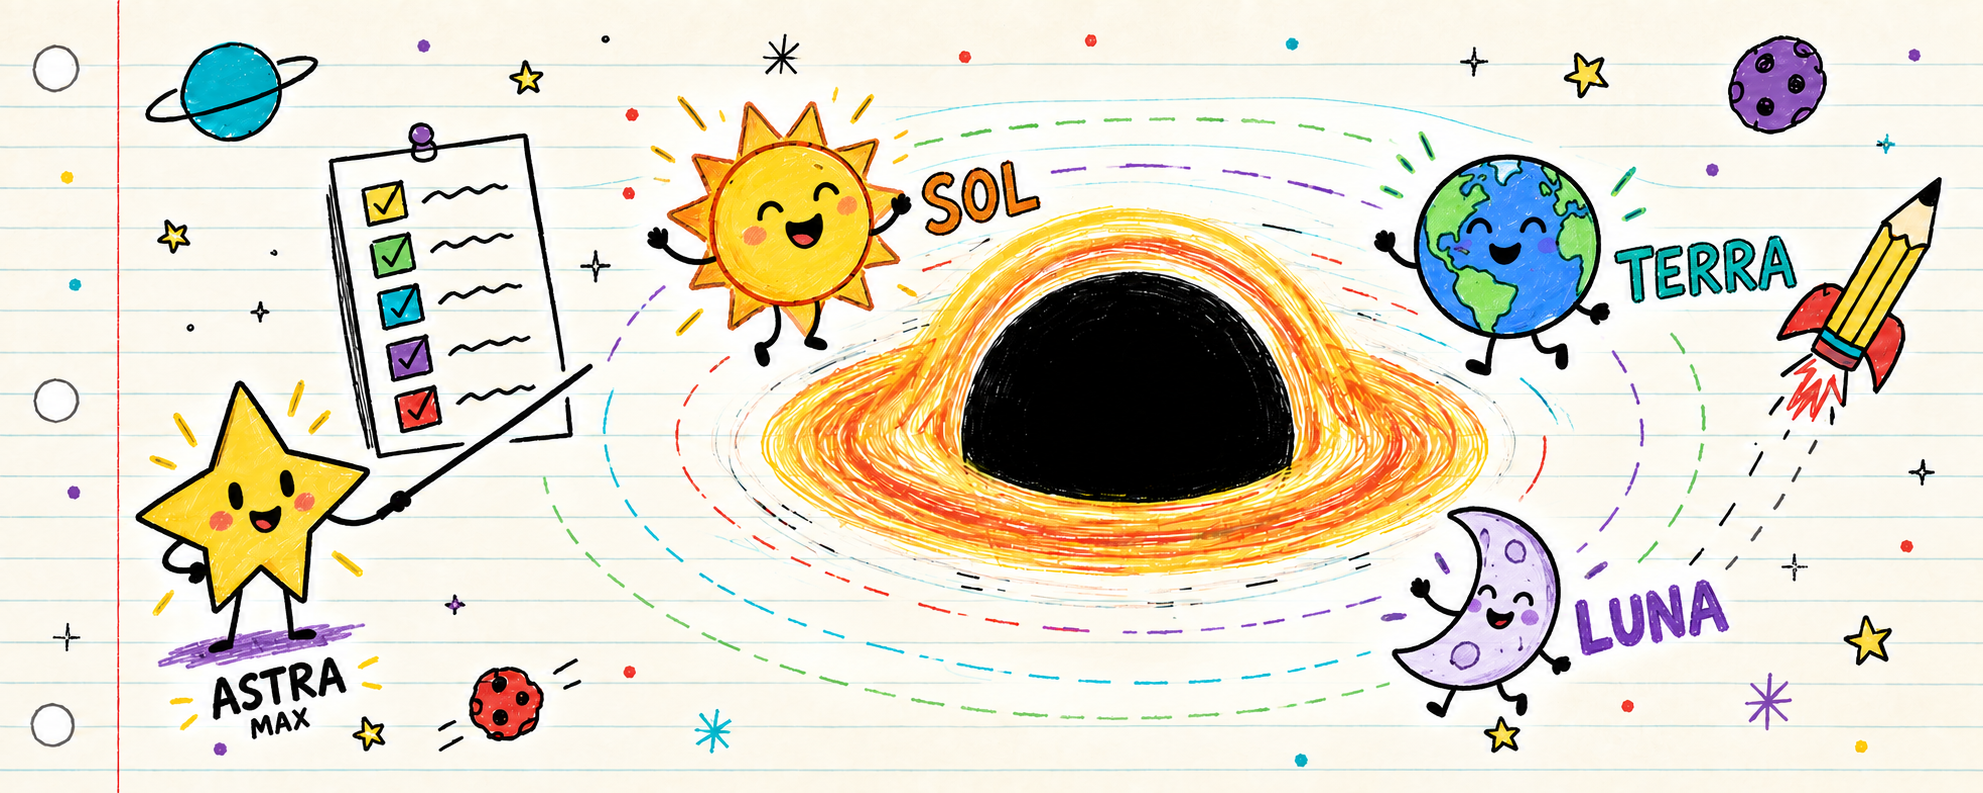
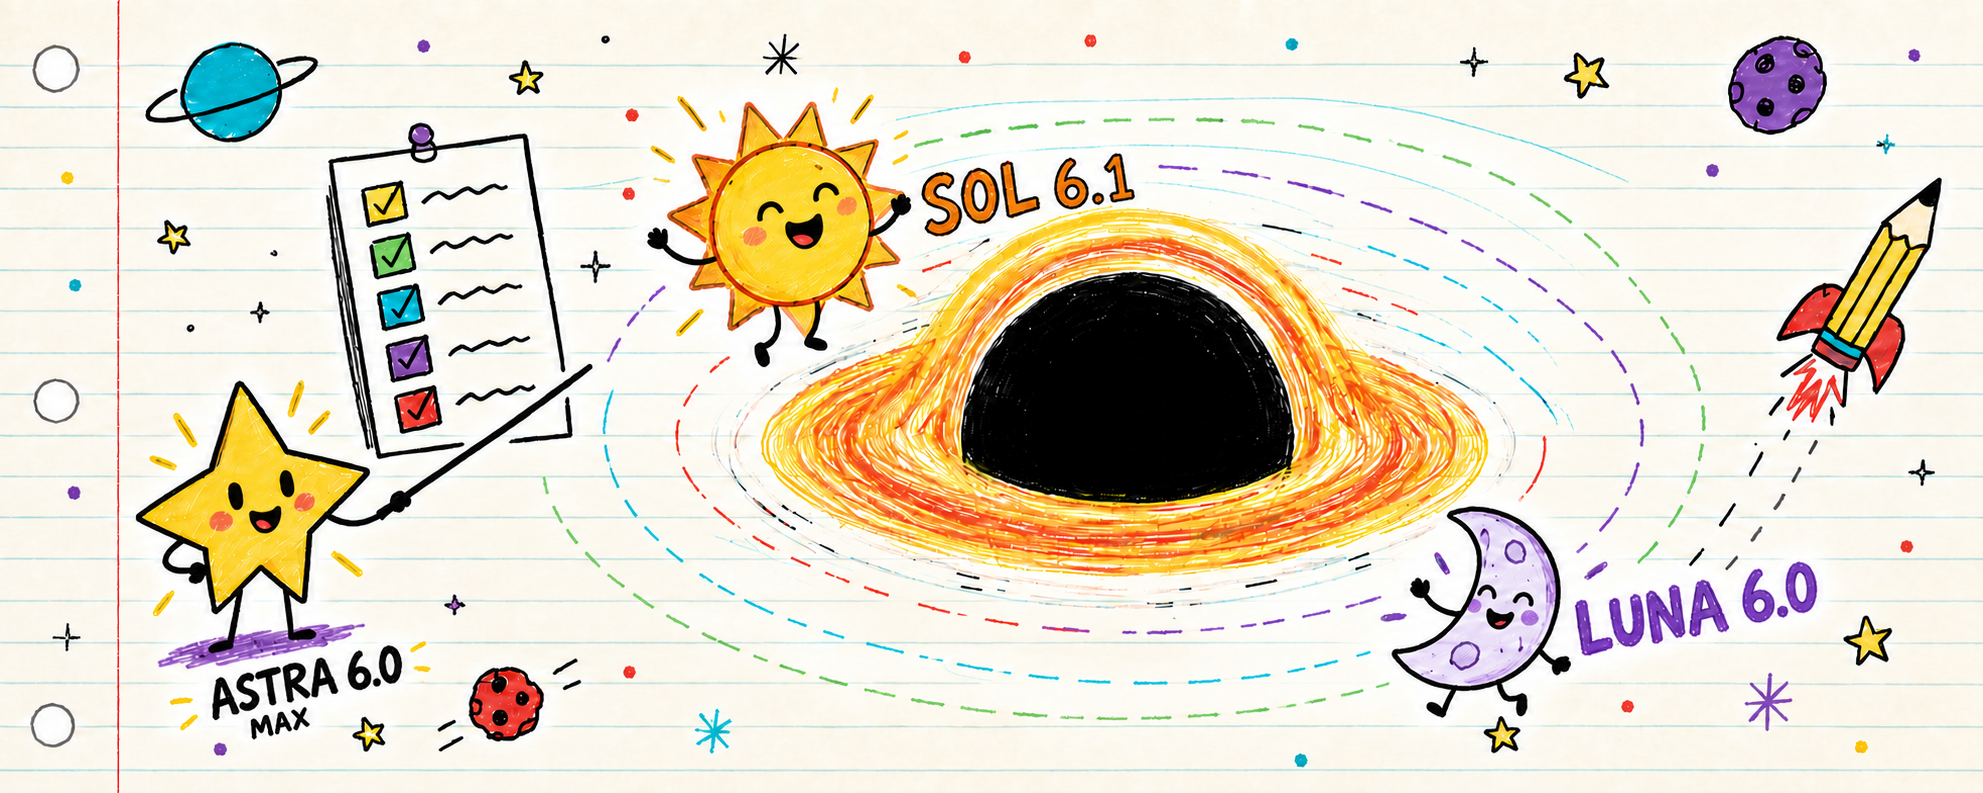
Restrict Gravity to Sol 6.1, Luna 6.0, and Astra 6.0

diff --git a/skills/gravity/SKILL.md b/skills/gravity/SKILL.md
@@ -1,11 +1,11 @@
 ---
 name: gravity
-description: Astra-coordinated GPT-6 worker routing for coding tasks, and for other work when Gravity, /orbit, /lens, /accrete, /bigbang, a swarm, or Gravity token economy is requested. Combines selective delegation, Graphify evidence, Ponytail minimal code, and Caveman concise delivery; specialist skills retain domain authority.
+description: GPT-6 Astra coordination with Luna for routine work and Sol 6.1 for implementation, complex work, and review. For coding tasks, or when Gravity, /orbit, /lens, /accrete, /bigbang, a swarm, or Gravity token economy is requested. Combines selective delegation, Graphify evidence, Ponytail minimal code, and Caveman concise delivery; specialist skills retain domain authority.
 ---
 
 # Gravity · GPT-6
 
-Use GPT-6 Astra at `max` to coordinate the outcome: understand the request, route useful work, judge results, integrate evidence, and finish. Route primary implementation and review to suitable GPT-6 workers. A swarm is useful only when independent results justify coordination.
+Use `gpt-6-astra` at `max` to coordinate the outcome: understand the request, route useful work, judge results, integrate evidence, and finish. Use only `gpt-6-luna` for routine work and `gpt-6.1-sol` for implementation, complex work, and review. These are the only allowed models. A swarm is useful only when independent results justify coordination.
 
 Apply implicitly to coding work and explicitly to other work through Gravity, its four modes, or a swarm request. Honor requests to avoid Gravity or agents. System and developer instructions, user scope, repository guidance, and specialist requirements govern this workflow. This skill grants no additional permissions and cannot change the running model itself.
 
@@ -32,12 +32,11 @@ The coordinator owns planning, difficult tradeoffs, acceptance, integration, and
 |---|---|---|
 | Coordinator / judge / integrator | `gpt-6-astra` | `max` |
 | Routine scoped work | `gpt-6-luna` | `low` or `medium` |
-| Bounded implementation, only if exposed by the host | `gpt-6-terra` | `medium` |
-| Complex work and independent review | `gpt-6-sol` | `medium` or `high` |
+| Implementation, complex work, and independent review | `gpt-6.1-sol` | `medium` or `high` |
 
-Start with the smallest suitable available worker; do not force clearly unsuitable models through serial attempts. A small serial task already running on a suitable confirmed non-Astra GPT-6 pairing can finish locally without an Astra coordinator. Terra is conditional, not assumed available: use `gpt-6-terra` only when the host confirms that model and effort. Set delegated worker model and effort explicitly; use inheritance only when the pairing is confirmed. When coordination is needed, use Astra at `max`; if that pairing cannot be configured, report the limitation and ask for the host setting. A skill cannot change the running model. Do not spawn a replacement coordinator or invent unsupported tool fields.
+Use Luna for routine scoped work and Sol 6.1 for implementation, complex work, and independent review. A small serial task already running on a suitable confirmed `gpt-6-luna` or `gpt-6.1-sol` pairing can finish locally without an Astra coordinator. Only `gpt-6.1-sol`, `gpt-6-luna`, and `gpt-6-astra` are allowed; do not substitute other versions or providers. Set delegated worker model and effort explicitly; use inheritance only when the pairing is confirmed. When coordination is needed, use `gpt-6-astra` at `max`; if that pairing cannot be configured, report the limitation and ask for the host setting. A skill cannot change the running model. Do not spawn a replacement coordinator or invent unsupported tool fields.
 
-Do not silently downgrade to GPT-5.6 or another provider. These are workflow roles, not cost or speed guarantees.
+These are workflow roles, not cost or speed guarantees.
 
 ## Establish evidence, then split
 
@@ -51,7 +50,7 @@ For substantial delegated work, keep an internal task DAG. Each node records a b
 
 ## Delegate when independent work pays off
 
-For small or serial primary work, continue locally if the running model is a suitable confirmed non-Astra GPT-6 pairing; otherwise delegate to one suitable non-Astra worker when permitted by user, host, and higher-priority instructions. Do not manufacture a swarm. Use multiple workers only when at least two substantial independent lanes can run alongside useful coordinator work. Each needs a distinct deliverable or risk area and focused verification. Short edits can qualify when their risk areas are independent; two labels for one coupled edit do not.
+For small or serial primary work, continue locally if the running model is a suitable confirmed `gpt-6-luna` or `gpt-6.1-sol` pairing; otherwise delegate to one suitable allowed non-Astra worker when permitted by user, host, and higher-priority instructions. Do not manufacture a swarm. Use multiple workers only when at least two substantial independent lanes can run alongside useful coordinator work. Each needs a distinct deliverable or risk area and focused verification. Short edits can qualify when their risk areas are independent; two labels for one coupled edit do not.
 
 Normally use at most two read-only scouts; use a third only for a real third lane and available capacity. Keep one writer at a time. Delegated writers receive exclusive paths; the coordinator does not write concurrently. Only the coordinator spawns; forbid nested agents.
 
@@ -71,7 +70,7 @@ Return: findings or changes, sources, fresh checks, touched files,
 blockers, and remaining uncertainty.
 ```
 
-Keep review briefs neutral. Reports are claims: inspect evidence and diffs before accepting them. If a worker fails acceptance, inspect its output, then give the unresolved portion and failure evidence to the next suitable untried non-Astra worker. Do not retry a clearly unsuitable model or cycle efforts without cause. Astra executes the unresolved portion only when every suitable available non-Astra option has been attempted and failed acceptance. Unavailable models, disabled delegation, and failed spawns are not failed worker attempts: report the blocker or request host capability rather than promoting primary work to Astra. Never automatically retry external or irreversible mutations.
+Keep review briefs neutral. Reports are claims: inspect evidence and diffs before accepting them. If a worker fails acceptance, inspect its output, then give the unresolved portion and failure evidence to the next suitable untried allowed non-Astra worker. Do not retry a clearly unsuitable model or cycle efforts without cause. Astra performs unresolved implementation only when every suitable available non-Astra option has been attempted and failed acceptance. Unavailable models, disabled delegation, and failed spawns are not failed worker attempts: report the blocker rather than promoting primary work to Astra. Never automatically retry external or irreversible mutations.
 
 After changes involving security, authentication, money, sensitive data, migrations, or multiple interacting areas, use one independent read-only Shadow Review when available and permitted. This is the one-lane exception. Otherwise review locally and disclose the limitation. Skip it for trivial changes.
 

diff --git a/README.md b/README.md
@@ -1,10 +1,10 @@
 <p align="center">
-  <img src="assets/gravity-banner.png" alt="Hand-drawn black hole with Sol sun, Terra planet, and Luna moon mascots on notebook paper" width="1000">
+  <img src="assets/gravity-banner.png" alt="Hand-drawn black hole with Sol 6.1 sun, Luna 6.0 moon, and Astra 6.0 Max coordinator on notebook paper" width="1000">
 </p>
 
 # Gravity · GPT-6
 
-A lean orchestration skill for a GPT-6 Astra coordinator and GPT-6 workers. Keep the outcome in one coordinator's hands; delegate bounded work when useful.
+A lean orchestration skill for a GPT-6.0 Astra coordinator and GPT-6.0 / GPT-6.1 workers. Keep the outcome in one coordinator's hands; delegate bounded work when useful.
 
 Gravity preserves its four modes and core disciplines: Graphify-informed task dependencies, selective multi-agent work, one writer, evidence-based acceptance, Shadow Review, Ponytail minimal implementation, Caveman concise delivery, and specialist-led product verification.
 
@@ -19,7 +19,7 @@ Gravity preserves its four modes and core disciplines: Graphify-informed task de
 
 Gravity applies automatically to coding tasks. For other work, name Gravity, use a mode, or request a swarm. An authorized review-and-fix proceeds from findings to changes without another permission round. Specialist skills retain control of their domain tools, formats, and verification.
 
-## GPT-6 roles
+## Allowed model roles
 
 The coordinator handles scope, tradeoffs, integration, and acceptance. Routine reversible choices proceed within the user's request; material ambiguity gets a focused question while independent work continues. Mid-task corrections steer the active objective, and completed work survives compaction.
 
@@ -27,12 +27,11 @@ The coordinator handles scope, tradeoffs, integration, and acceptance. Routine r
 |---|---|---|
 | Coordinator / judge / integrator | `gpt-6-astra` | `max` |
 | Routine scoped worker | `gpt-6-luna` | `low` or `medium` |
-| Bounded implementation, if exposed by the host | `gpt-6-terra` | `medium` |
-| Complex work / independent review | `gpt-6-sol` | `medium` or `high` |
+| Implementation / complex work / independent review | `gpt-6.1-sol` | `medium` or `high` |
 
-When coordination is needed, select Astra at `max` in the host; installing the skill cannot switch the running model. A small serial task can stay with an already running, suitable confirmed non-Astra GPT-6 model. Delegated workers use explicit supported model and effort controls, or confirmed matching inheritance. Terra is a conditional role: use `gpt-6-terra` only if the host confirms that pairing. Gravity never silently substitutes GPT-5.6 or another provider. Routing is a project policy, not an official cost recommendation; no token, latency, or quality improvement is claimed without measurement.
+Only `gpt-6.1-sol`, `gpt-6-luna`, and `gpt-6-astra` are allowed. Use their exact model IDs; do not substitute another version or provider. When coordination is needed, select Astra at `max` in the host; installing the skill cannot switch the running model. A small serial task can stay with an already running, suitable confirmed `gpt-6-luna` or `gpt-6.1-sol` model. Delegated workers use explicit supported model and effort controls, or confirmed matching inheritance. Routing is a project policy, not an official cost recommendation; no token, latency, or quality improvement is claimed without measurement.
 
-Choose the smallest suitable available worker. If acceptance fails, inspect its output and pass the evidence to a suitable untried non-Astra worker. Astra executes the unresolved portion only after all suitable available non-Astra workers have failed. An unavailable model or failed spawn is not a failed worker; report the blocker or request host capability instead of promoting the work to Astra.
+Use Luna for routine work and Sol 6.1 for implementation, complex work, or independent review. If acceptance fails, inspect the output and pass evidence to another suitable, untried allowed worker. Astra executes unresolved implementation only after all suitable available non-Astra workers have failed. An unavailable model or failed spawn is not a failed worker; report the blocker instead of promoting the work to Astra.
 
 ## How work flows
 
